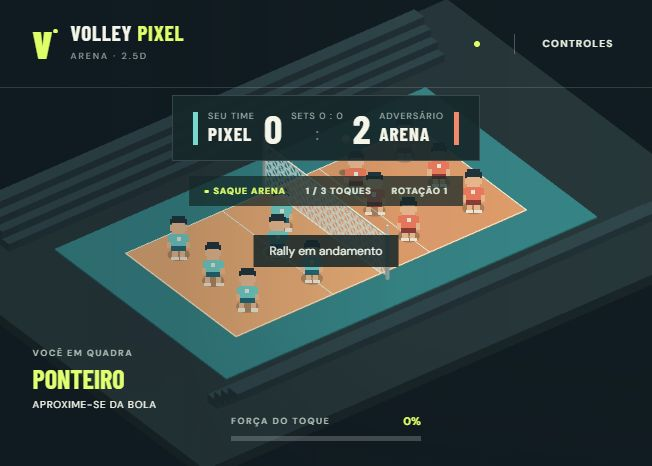
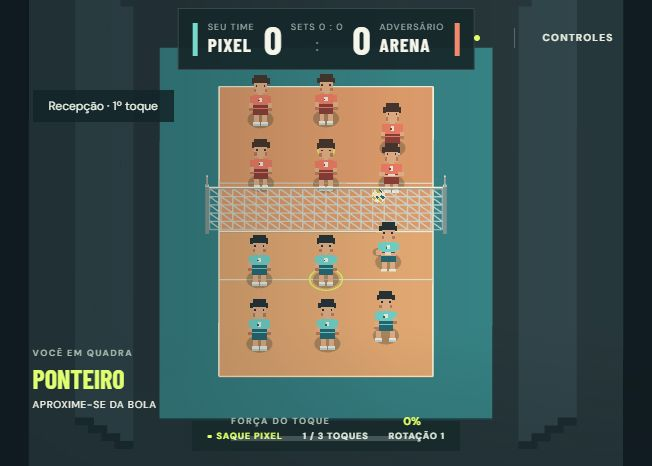
Adjust camera and animate pixel sprites

diff --git a/src/view.js b/src/view.js
@@ -1,13 +1,29 @@
 import * as THREE from 'three';
 const mat=(c)=>new THREE.MeshStandardMaterial({color:c,roughness:.85});
 export class View{
- constructor(host,players){this.host=host;this.scene=new THREE.Scene();this.scene.background=new THREE.Color(0x111c22);this.camera=new THREE.OrthographicCamera(-15,15,10,-10,.1,100);this.camera.position.set(-19,22,25);this.camera.lookAt(0,0,0);this.renderer=new THREE.WebGLRenderer({antialias:true});this.renderer.setPixelRatio(Math.min(devicePixelRatio,1.5));this.renderer.shadowMap.enabled=true;this.renderer.shadowMap.type=THREE.PCFSoftShadowMap;host.appendChild(this.renderer.domElement);this.scene.add(new THREE.HemisphereLight(0xd9f5ff,0x574132,2));let light=new THREE.DirectionalLight(0xfff2df,2.3);light.position.set(-6,20,9);light.castShadow=true;light.shadow.mapSize.set(1024,1024);light.shadow.camera.left=-16;light.shadow.camera.right=16;light.shadow.camera.top=16;light.shadow.camera.bottom=-16;this.scene.add(light);this.buildCourt();this.playerMeshes=players.map(p=>this.makePlayer(p));let ball=new THREE.Mesh(new THREE.SphereGeometry(.24,16,12),mat(0xf8ebc6));ball.castShadow=true;this.scene.add(ball);this.ball=ball;let stripe=new THREE.Mesh(new THREE.TorusGeometry(.241,.018,5,24),new THREE.MeshBasicMaterial({color:0x197c99}));ball.add(stripe);this.ballShadow=this.shadow(.35);this.aim=new THREE.Mesh(new THREE.RingGeometry(.3,.38,32),new THREE.MeshBasicMaterial({color:0xe4ff68,side:THREE.DoubleSide,transparent:true,opacity:.8}));this.aim.rotation.x=-Math.PI/2;this.aim.position.y=.035;this.scene.add(this.aim);this.line=new THREE.Line(new THREE.BufferGeometry(),new THREE.LineBasicMaterial({color:0xe4ff68,transparent:true,opacity:.55}));this.scene.add(this.line);this.ray=new THREE.Raycaster();this.plane=new THREE.Plane(new THREE.Vector3(0,1,0),0);this.resize();window.addEventListener('resize',()=>this.resize())}
+ constructor(host,players){this.host=host;this.scene=new THREE.Scene();this.scene.background=new THREE.Color(0x111c22);this.camera=new THREE.OrthographicCamera(-15,15,10,-10,.1,100);this.camera.position.set(-25,23,.01);this.camera.lookAt(0,0,0);this.renderer=new THREE.WebGLRenderer({antialias:true});this.renderer.setPixelRatio(Math.min(devicePixelRatio,1.5));this.renderer.shadowMap.enabled=true;this.renderer.shadowMap.type=THREE.PCFSoftShadowMap;host.appendChild(this.renderer.domElement);this.scene.add(new THREE.HemisphereLight(0xd9f5ff,0x574132,2));let light=new THREE.DirectionalLight(0xfff2df,2.3);light.position.set(-6,20,9);light.castShadow=true;light.shadow.mapSize.set(1024,1024);light.shadow.camera.left=-16;light.shadow.camera.right=16;light.shadow.camera.top=16;light.shadow.camera.bottom=-16;this.scene.add(light);this.buildCourt();this.playerMeshes=players.map(p=>this.makePlayer(p));let ballCanvas=document.createElement('canvas');ballCanvas.width=32;ballCanvas.height=32;let bc=ballCanvas.getContext('2d');bc.fillStyle='#fff4cb';bc.fillRect(8,3,16,26);bc.fillRect(4,7,24,18);bc.fillRect(2,11,28,10);bc.fillStyle='#e1b73f';bc.fillRect(4,9,8,5);bc.fillRect(17,4,7,5);bc.fillRect(19,20,8,5);bc.fillStyle='#236c8c';bc.fillRect(4,17,9,5);bc.fillRect(13,10,7,5);bc.fillRect(16,25,8,3);bc.fillStyle='#fffdf0';bc.fillRect(9,6,5,3);let bt=new THREE.CanvasTexture(ballCanvas);bt.magFilter=THREE.NearestFilter;bt.minFilter=THREE.NearestFilter;bt.colorSpace=THREE.SRGBColorSpace;let ball=new THREE.Sprite(new THREE.SpriteMaterial({map:bt,transparent:true,depthWrite:false}));ball.scale.set(.65,.65,1);this.scene.add(ball);this.ball=ball;this.ballShadow=this.shadow(.35);this.aim=new THREE.Mesh(new THREE.RingGeometry(.3,.38,32),new THREE.MeshBasicMaterial({color:0xe4ff68,side:THREE.DoubleSide,transparent:true,opacity:.8}));this.aim.rotation.x=-Math.PI/2;this.aim.position.y=.035;this.scene.add(this.aim);this.line=new THREE.Line(new THREE.BufferGeometry(),new THREE.LineBasicMaterial({color:0xe4ff68,transparent:true,opacity:.55}));this.scene.add(this.line);this.ray=new THREE.Raycaster();this.plane=new THREE.Plane(new THREE.Vector3(0,1,0),0);this.resize();window.addEventListener('resize',()=>this.resize())}
  box(x,y,z,w,h,d,color){let m=new THREE.Mesh(new THREE.BoxGeometry(w,h,d),mat(color));m.position.set(x,y,z);m.receiveShadow=true;this.scene.add(m);return m}
  buildCourt(){this.box(0,-.38,0,34,.6,25,0x182c32);this.box(0,-.03,0,23,.08,14,0x2d7b80);this.box(-4.5,.02,0,9,.08,9,0xe3a26e);this.box(4.5,.02,0,9,.08,9,0xdd9566);const line=(x,z,w,d)=>this.box(x,.075,z,w,.025,d,0xf6e8d0);line(0,-4.5,18,.07);line(0,4.5,18,.07);line(-9,0,.07,9);line(9,0,.07,9);line(-3,0,.055,9);line(3,0,.055,9);line(0,0,.08,9);for(let z of [-5,5]){this.box(0,1.35,z,.15,2.7,.15,0xc4d5d3);this.box(0,2.75,z,.08,1,.08,0xf8eee0)}let net=new THREE.Mesh(new THREE.PlaneGeometry(9.8,2.35,20,5),new THREE.MeshBasicMaterial({color:0xd7e8e2,wireframe:true,transparent:true,opacity:.35,side:THREE.DoubleSide}));net.rotation.y=Math.PI/2;net.position.set(0,1.37,0);this.scene.add(net);this.box(0,2.57,0,.08,.08,10,0xf9f2df);for(let i=0;i<4;i++){this.box(0,.3+i*.45,-8.5-i*.55,27,.45,.8,0x253c43);this.box(0,.3+i*.45,8.5+i*.55,27,.45,.8,0x253c43)} }
  shadow(r){let m=new THREE.Mesh(new THREE.CircleGeometry(r,24),new THREE.MeshBasicMaterial({color:0x0b2423,transparent:true,opacity:.25,depthWrite:false}));m.rotation.x=-Math.PI/2;m.position.y=.09;this.scene.add(m);return m}
- spriteTexture(team,role,frame){let c=document.createElement('canvas');c.width=32;c.height=48;let x=c.getContext('2d');x.imageSmoothingEnabled=false;let jersey=role==='Líbero'?'#f5d463':team?'#f27d5e':'#75d3cb';let dark=team?'#903d37':'#236978';let skin='#efbd92';x.fillStyle='rgba(0,0,0,0)';x.clearRect(0,0,32,48);x.fillStyle='#23343c';x.fillRect(10,5,12,10);x.fillRect(8,8,16,5);x.fillStyle=skin;x.fillRect(10,12,12,10);x.fillRect(8,14,2,5);x.fillRect(22,14,2,5);x.fillStyle=jersey;x.fillRect(9,22,14,12);x.fillRect(6,23,4,8);x.fillRect(22,23,4,8);x.fillStyle=skin;x.fillRect(5,30,4,6);x.fillRect(23,30,4,6);x.fillStyle='#f2efe3';x.fillRect(14,25,4,4);x.fillStyle=dark;x.fillRect(9,34,14,5);x.fillStyle=skin;x.fillRect(frame?8:10,39,5,5);x.fillRect(frame?19:17,39,5,5);x.fillStyle='#f5f0df';x.fillRect(frame?7:9,44,7,3);x.fillRect(frame?19:17,44,7,3);let t=new THREE.CanvasTexture(c);t.magFilter=THREE.NearestFilter;t.minFilter=THREE.NearestFilter;t.colorSpace=THREE.SRGBColorSpace;return t}
- makePlayer(p){let textures=[this.spriteTexture(p.team,p.role,0),this.spriteTexture(p.team,p.role,1)];let sprite=new THREE.Sprite(new THREE.SpriteMaterial({map:textures[0],transparent:true,depthWrite:false}));sprite.scale.set(1.65,2.47,1);this.scene.add(sprite);let shadow=this.shadow(.55);let marker=new THREE.Mesh(new THREE.RingGeometry(.65,.72,32),new THREE.MeshBasicMaterial({color:0xe4ff68,side:THREE.DoubleSide}));marker.rotation.x=-Math.PI/2;this.scene.add(marker);return {sprite,shadow,marker,textures}}
+ spriteTexture(team,role,pose,frame){
+  const c=document.createElement('canvas');c.width=48;c.height=64;const x=c.getContext('2d');x.imageSmoothingEnabled=false;
+  const jersey=role==='Líbero'?'#f3d45f':team?'#f48066':'#75d8cd', dark=team?'#8f403a':'#286b76', skin='#eab489', shade='#bd805f', hair=team?'#48362e':'#26343a';
+  const rect=(color,a,b,w,h)=>{x.fillStyle=color;x.fillRect(a,b,w,h)};
+  let crouch=pose==='pass', set=pose==='set', attack=pose==='attack', dive=pose==='dive';let y=crouch?5:0;
+  if(dive){rect(hair,27,32,11,8);rect(skin,28,39,11,8);rect(jersey,15,37,14,10);rect(dark,9,43,10,7);rect(skin,3,45,8,4);rect(skin,37,42,8,4);rect('#f5f2df',1,48,8,3);return this.texture(c)}
+  // Hair, face, neck and jersey are assembled on a deliberately small pixel grid.
+  rect(hair,16,5+y,16,11);rect(hair,13,9+y,22,6);rect(skin,16,14+y,16,11);rect(shade,16,20+y,3,4);rect(shade,29,20+y,3,4);rect(hair,18,16+y,2,2);rect(hair,28,16+y,2,2);rect(skin,21,24+y,6,4);
+  rect(jersey,15,27+y,18,16);rect(dark,15,38+y,18,3);rect('#f8f5e6',22,30+y,4,5);rect(dark,21,32+y,2,2);rect(jersey,11,28+y,5,9);rect(jersey,32,28+y,5,9);
+  if(set){rect(skin,9,17+y,5,13);rect(skin,34,17+y,5,13);rect(skin,12,11+y,5,8);rect(skin,31,11+y,5,8);rect('#f8e6d1',10,9+y,7,3);rect('#f8e6d1',31,9+y,7,3)}
+  else if(attack){rect(skin,9,21+y,5,12);rect(skin,34,12+y,5,16);rect(skin,32,7+y,8,6)}
+  else if(crouch){rect(skin,9,36+y,7,5);rect(skin,32,36+y,7,5);rect(skin,15,39+y,18,4);rect('#f4e4d4',20,38+y,8,3)}
+  else {let swing=pose==='run'&&frame?3:0;rect(skin,10,36+y+swing,5,8);rect(skin,33,36+y-swing,5,8);rect(shade,10,41+y+swing,5,3);rect(shade,33,41+y-swing,5,3)}
+  rect(dark,15,42+y,18,7);let left=pose==='run'&&frame?12:16,right=pose==='run'&&frame?29:26;rect(skin,left,49+y,6,8);rect(skin,right,49+y,6,8);rect('#f5f4e8',left-1,56+y,8,4);rect('#f5f4e8',right-1,56+y,8,4);rect('#c6d9d4',left-1,59+y,8,2);rect('#c6d9d4',right-1,59+y,8,2);return this.texture(c)
+ }
+ texture(c){let t=new THREE.CanvasTexture(c);t.magFilter=THREE.NearestFilter;t.minFilter=THREE.NearestFilter;t.colorSpace=THREE.SRGBColorSpace;return t} makePlayer(p){let textures={};for(const pose of ['idle','run','pass','set','attack','dive'])textures[pose]=[this.spriteTexture(p.team,p.role,pose,0),this.spriteTexture(p.team,p.role,pose,1)];let sprite=new THREE.Sprite(new THREE.SpriteMaterial({map:textures.idle[0],transparent:true,depthWrite:false}));sprite.scale.set(1.65,2.47,1);this.scene.add(sprite);let shadow=this.shadow(.55);let marker=new THREE.Mesh(new THREE.RingGeometry(.65,.72,32),new THREE.MeshBasicMaterial({color:0xe4ff68,side:THREE.DoubleSide}));marker.rotation.x=-Math.PI/2;this.scene.add(marker);return {sprite,shadow,marker,textures,role:p.role}}
  pointer(clientX,clientY){let rect=this.renderer.domElement.getBoundingClientRect();this.ray.setFromCamera(new THREE.Vector2((clientX-rect.left)/rect.width*2-1,-((clientY-rect.top)/rect.height)*2+1),this.camera);let v=new THREE.Vector3();return this.ray.ray.intersectPlane(this.plane,v)?{x:v.x,z:v.z}:null}
- resize(){let w=this.host.clientWidth,h=this.host.clientHeight;this.renderer.setSize(w,h);let aspect=w/h;let size=11.5;this.camera.left=-size*aspect;this.camera.right=size*aspect;this.camera.top=size;this.camera.bottom=-size;this.camera.updateProjectionMatrix()}
- render(game){for(let i=0;i<game.players.length;i++){let p=game.players[i],m=this.playerMeshes[i];m.sprite.position.set(p.x,1.24+p.y,p.z);m.sprite.material.map=m.textures[Math.floor(p.anim*3)%2];m.shadow.position.set(p.x,.1,p.z);m.shadow.scale.setScalar(1-p.y*.12);m.marker.visible=p===game.controlled;m.marker.position.set(p.x,.11,p.z)}let b=game.ball;this.ball.position.set(b.x,b.y,b.z);this.ball.rotation.x+=.04;this.ball.rotation.z+=.03;this.ballShadow.position.set(b.x,.1,b.z);this.ballShadow.scale.setScalar(Math.max(.35,1-b.y*.08));this.aim.position.set(game.aim.x,.1,game.aim.z);this.aim.material.color.set(game.aimValid()?0xe4ff68:0xff7a70);let pts=[];if(game.charge!==null){let t=game.aim;for(let i=0;i<=20;i++){let f=i/20;pts.push(new THREE.Vector3(b.x+(t.x-b.x)*f,b.y+(0.15-b.y)*f+Math.sin(f*Math.PI)*3,b.z+(t.z-b.z)*f))}}this.line.geometry.setFromPoints(pts);this.renderer.render(this.scene,this.camera)}
+ resize(){let w=this.host.clientWidth,h=this.host.clientHeight;this.renderer.setSize(w,h);let aspect=w/h;let size=9.8;this.camera.left=-size*aspect;this.camera.right=size*aspect;this.camera.top=size;this.camera.bottom=-size;this.camera.updateProjectionMatrix()}
+ render(game){for(let i=0;i<game.players.length;i++){let p=game.players[i],m=this.playerMeshes[i];if(m.role!==p.role){for(const pose of Object.values(m.textures))for(const texture of pose)texture.dispose();for(const pose of ['idle','run','pass','set','attack','dive'])m.textures[pose]=[this.spriteTexture(p.team,p.role,pose,0),this.spriteTexture(p.team,p.role,pose,1)];m.role=p.role}m.sprite.position.set(p.x,1.24+p.y,p.z);let pose=p.actionTime>0?p.actionPose:(p.y>.2?'attack':p.action==='run'?'run':'idle');m.sprite.material.map=m.textures[pose][Math.floor(p.anim*3)%2];m.shadow.position.set(p.x,.1,p.z);m.shadow.scale.setScalar(1-p.y*.12);m.marker.visible=p===game.controlled;m.marker.position.set(p.x,.11,p.z)}let b=game.ball;this.ball.position.set(b.x,b.y,b.z);this.ball.material.rotation+=.03;this.ballShadow.position.set(b.x,.1,b.z);this.ballShadow.scale.setScalar(Math.max(.35,1-b.y*.08));this.aim.position.set(game.aim.x,.1,game.aim.z);this.aim.material.color.set(game.aimValid()?0xe4ff68:0xff7a70);let pts=[];if(game.charge!==null){let t=game.aim;for(let i=0;i<=20;i++){let f=i/20;pts.push(new THREE.Vector3(b.x+(t.x-b.x)*f,b.y+(0.15-b.y)*f+Math.sin(f*Math.PI)*3,b.z+(t.z-b.z)*f))}}this.line.geometry.setFromPoints(pts);this.renderer.render(this.scene,this.camera)}
 }
+
+

diff --git a/src/main.js b/src/main.js
@@ -6,7 +6,8 @@ const app=document.querySelector('#app');
 app.innerHTML=`<div id="stage"></div><div class="grain"></div><header class="topbar"><div class="brand"><span class="brand-mark">V<span>●</span></span><div><b>VOLLEY <em>PIXEL</em></b><small>ARENA · 2.5D</small></div></div><div class="top-right"><span class="live-dot"></span> QUADRA CENTRAL <span class="divider"></span> <button id="helpBtn">CONTROLES</button></div></header><main id="menu" class="menu"><div class="eyebrow"><span></span> O JOGO É SEU</div><h1>ENTRE<br>EM <i>QUADRA.</i></h1><p>Monte sua jogada, encontre o espaço e faça a bola cair. Uma experiência de vôlei em 2.5D para jogar no navegador.</p><div class="menu-grid"><label>POSIÇÃO<select id="role"><option>Ponteiro</option><option>Levantador</option><option>Oposto</option><option>Central</option><option>Líbero</option></select></label><label>DIFICULDADE<select id="difficulty"><option>Normal</option><option>Fácil</option><option>Difícil</option></select></label></div><div class="menu-actions"><button id="play" class="primary">JOGAR PARTIDA <span>↗</span></button><button id="train" class="secondary">TREINAR</button></div><label class="check"><input id="quick" type="checkbox" checked> PARTIDA RÁPIDA <span>· SET ATÉ 7 PONTOS</span></label><div class="menu-note"><b>01 / PROTÓTIPO JOGÁVEL</b><span>TECLADO + MOUSE</span></div></main><div id="hud" class="hud hidden"><div class="score"><div class="team"><span class="team-chip teal"></span><div><small>SEU TIME</small><b>PIXEL</b></div></div><strong id="scoreA">0</strong><div class="score-mid"><small>SETS <span id="sets">0 : 0</span></small><i>:</i></div><strong id="scoreB">0</strong><div class="team rival"><div><small>ADVERSÁRIO</small><b>ARENA</b></div><span class="team-chip coral"></span></div></div><div class="match-meta"><span id="serve">● SAQUE PIXEL</span><span id="touches">0 / 3 TOQUES</span><span id="rotation">ROTAÇÃO 1</span></div><div class="game-message" id="message"></div><div class="bottom-left"><span class="mini-label">VOCÊ EM QUADRA</span><strong id="playerRole">PONTEIRO</strong><span id="hint">Aproxime-se da bola para jogar</span></div><div class="power-wrap"><div><span>FORÇA DO TOQUE</span><b id="powerText">0%</b></div><div class="power-track"><div id="power"></div></div></div><div class="bottom-right"><kbd>W A S D</kbd> MOVER <kbd>SHIFT</kbd> CORRER <kbd>ESPAÇO</kbd> SALTAR <kbd>ESC</kbd> PAUSAR</div></div><div class="corner-label">VOLLEY PIXEL ARENA <span>✳</span> TEMPORADA 01</div><div id="pause" class="modal hidden"><div><small>TEMPO TÉCNICO</small><h2>JOGO PAUSADO</h2><button id="resume" class="primary">CONTINUAR</button><button id="restart" class="secondary">NOVA PARTIDA</button><button id="back" class="textbtn">VOLTAR AO MENU</button></div></div><div id="help" class="modal hidden"><div><small>GUIA RÁPIDO</small><h2>COMO JOGAR</h2><p><b>W A S D</b> movimenta em relação à câmera; <b>Shift</b> corre e <b>Espaço</b> salta ou mergulha.</p><p>Mire no chão com o mouse. Segure e solte o <b>botão esquerdo</b> para recepcionar, levantar ou atacar. O <b>direito</b> envia a bola para o outro lado. O terceiro toque prioriza o ataque.</p><p>Aproxime-se da bola antes de soltar. No treino, a equipe adversária alimenta rallies continuamente.</p><button id="closeHelp" class="primary">ENTENDI</button></div></div>`;
 let game=new Game({role:'Ponteiro',difficulty:'Normal',quick:true,training:false},()=>{});let view=new View(document.querySelector('#stage'),game.players);let active=false, audio=null;
 function sound(type){if(!audio)return;let o=audio.createOscillator(),g=audio.createGain();let f={hit:190,pass:300,serve:240,point:520,whistle:900,net:120,jump:200}[type]||200;o.type=type==='whistle'?'sine':'triangle';o.frequency.setValueAtTime(f,audio.currentTime);o.frequency.exponentialRampToValueAtTime(f*.65,audio.currentTime+.12);g.gain.setValueAtTime(.025,audio.currentTime);g.gain.exponentialRampToValueAtTime(.001,audio.currentTime+.13);o.connect(g).connect(audio.destination);o.start();o.stop(audio.currentTime+.14)}
-const $=id=>document.getElementById(id);function start(training){if(!audio)audio=new AudioContext();audio.resume();game=new Game({role:$('role').value,difficulty:$('difficulty').value,quick:$('quick').checked,training},sound);if(training)game.rules.server=1;active=true;$('menu').classList.add('hidden');$('hud').classList.remove('hidden');$('pause').classList.add('hidden');$('playerRole').textContent=game.controlled.role.toUpperCase()+(training?' · TREINO':'');}
+const $=id=>document.getElementById(id);function start(training){if(!audio)audio=new AudioContext();audio.resume();game=new Game({role:$('role').value,difficulty:$('difficulty').value,quick:$('quick').checked,training},sound);if(training){game.rules.server=1;game.serve()}active=true;$('menu').classList.add('hidden');$('hud').classList.remove('hidden');$('pause').classList.add('hidden');$('playerRole').textContent=game.controlled.role.toUpperCase()+(training?' · TREINO':'');}
 $('play').onclick=()=>start(false);$('train').onclick=()=>start(true);$('resume').onclick=()=>{game.paused=false;$('pause').classList.add('hidden')};$('restart').onclick=()=>start(game.training);$('back').onclick=()=>{active=false;game.paused=false;$('pause').classList.add('hidden');$('hud').classList.add('hidden');$('menu').classList.remove('hidden')};$('helpBtn').onclick=()=>{$('help').classList.remove('hidden');if(active)game.paused=true};$('closeHelp').onclick=()=>{$('help').classList.add('hidden');if(active)game.paused=false};
 window.addEventListener('keydown',e=>{let k=e.key.toLowerCase();game.keys[k]=true;if([' ','escape'].includes(k))e.preventDefault();if(e.repeat)return;if(k===' '&&active&&!game.paused)game.special();if(k==='escape'&&active){game.paused=!game.paused;$('pause').classList.toggle('hidden',!game.paused)}});window.addEventListener('keyup',e=>game.keys[e.key.toLowerCase()]=false);window.addEventListener('blur',()=>{game.keys={};game.charge=null});view.renderer.domElement.addEventListener('pointermove',e=>{let v=view.pointer(e.clientX,e.clientY);if(v)game.aim={x:clamp(v.x,-12,12),z:clamp(v.z,-7,7)}});view.renderer.domElement.addEventListener('contextmenu',e=>e.preventDefault());view.renderer.domElement.addEventListener('pointerdown',e=>{if(active&&!game.paused&&(e.button===0||e.button===2)){game.charge={start:performance.now(),button:e.button};view.renderer.domElement.setPointerCapture(e.pointerId)}});view.renderer.domElement.addEventListener('pointerup',e=>{if(!game.charge||!active||game.paused)return;let power=clamp((performance.now()-game.charge.start)/1100,.12,1);let target={...game.aim};if(game.charge.button===2&&target.x<.5)target.x=Math.max(1,Math.abs(target.x));game.contact(game.controlled,target,power);game.charge=null});
 let last=performance.now(),acc=0;function frame(now){let dt=Math.min((now-last)/1000,.1);last=now;acc+=dt;while(acc>=1/60){if(active)game.update(1/60);acc-=1/60}view.render(game);if(active){let r=game.rules;$('scoreA').textContent=r.points[0];$('scoreB').textContent=r.points[1];$('sets').textContent=r.sets.join(' : ');$('serve').textContent='● SAQUE '+(r.server?'ARENA':'PIXEL');$('touches').textContent=r.touches+' / 3 TOQUES';$('rotation').textContent='ROTAÇÃO '+(r.rotation[0]+1);$('message').textContent=r.over?'FIM DE JOGO · ESC PARA REINICIAR':game.message;let power=game.charge?clamp((now-game.charge.start)/1100,0,1):0;$('power').style.width=(power*100)+'%';$('powerText').textContent=Math.round(power*100)+'%';$('hint').textContent=game.ball.live?(Math.hypot(game.controlled.x-game.ball.x,game.controlled.z-game.ball.z)<1.55?'SOLTE O BOTÃO PARA TOCAR':'APROXIME-SE DA BOLA'):'AGUARDE O SAQUE'}requestAnimationFrame(frame)}requestAnimationFrame(frame);
+

diff --git a/src/style.css b/src/style.css
@@ -1,3 +1,4 @@
 @import url('https://fonts.googleapis.com/css2?family=Barlow+Condensed:wght@500;600;700;800;900&family=DM+Sans:wght@400;500;600;700&display=swap');
 :root{font-family:'DM Sans',sans-serif;color:#f5f5e9;background:#111c22;font-synthesis:none}*{box-sizing:border-box}body{margin:0;overflow:hidden}button,select{font:inherit}button{cursor:pointer}#stage,.grain{position:fixed;inset:0}#stage canvas{display:block;width:100%;height:100%}.grain{pointer-events:none;background:linear-gradient(90deg,rgba(12,23,28,.97) 0%,rgba(12,23,28,.91) 28%,rgba(12,23,28,.25) 61%,rgba(12,23,28,.05)),linear-gradient(0deg,rgba(12,23,28,.65),transparent 30%);transition:opacity .4s}body:has(.menu.hidden) .grain{opacity:.25}.topbar{position:absolute;top:0;left:0;right:0;height:88px;padding:0 5%;display:flex;align-items:center;justify-content:space-between;border-bottom:1px solid #ffffff24;z-index:3}.brand{display:flex;align-items:center;gap:12px}.brand-mark{font-family:'Barlow Condensed';font-size:38px;line-height:1;color:#dfff69;font-weight:900;font-style:italic}.brand-mark span{font-size:10px;vertical-align:top}.brand b{display:block;font-family:'Barlow Condensed';font-size:21px;line-height:.95;letter-spacing:.04em}.brand em{font-style:normal;color:#dfff69}.brand small{font-size:9px;letter-spacing:.22em;color:#94a5a4}.top-right{display:flex;align-items:center;gap:12px;font-size:10px;letter-spacing:.14em;font-weight:700;color:#b7c7c1}.live-dot{width:6px;height:6px;border-radius:50%;background:#dfff69}.divider{height:20px;width:1px;background:#ffffff40;margin:0 10px}.top-right button,.textbtn{border:0;color:#e6eddf;background:none;font-size:10px;font-weight:700;letter-spacing:.12em}.menu{position:absolute;z-index:2;left:7.2%;top:50%;transform:translateY(-43%);width:min(480px,43vw)}.eyebrow{font-size:11px;font-weight:700;letter-spacing:.22em;color:#dfff69;display:flex;align-items:center;gap:12px}.eyebrow span{height:2px;width:35px;background:#dfff69}h1,h2{font-family:'Barlow Condensed',sans-serif;font-weight:900;margin:18px 0;letter-spacing:-.025em;line-height:.79}h1{font-size:clamp(72px,8.5vw,135px)}h1 i{color:#dfff69;font-style:italic}.menu p{font-size:14px;line-height:1.7;color:#b9c6bf;max-width:390px;margin:28px 0}.menu-grid{display:grid;grid-template-columns:1fr 1fr;gap:12px;margin-top:28px}label{display:block;font-size:10px;letter-spacing:.15em;font-weight:700;color:#aabcb6}select{appearance:none;width:100%;margin-top:9px;padding:14px 15px;background:#26383a;border:1px solid #ffffff21;color:#fff;font-size:14px;background-image:linear-gradient(45deg,transparent 50%,#dfff69 50%),linear-gradient(135deg,#dfff69 50%,transparent 50%);background-position:calc(100% - 18px) 20px,calc(100% - 13px) 20px;background-size:5px 5px;background-repeat:no-repeat}.menu-actions{display:flex;gap:10px;margin-top:18px}.primary,.secondary{border:1px solid #dfff69;padding:17px 21px;font-size:11px;font-weight:800;letter-spacing:.12em}.primary{background:#dfff69;color:#152322;flex:1}.primary span{float:right;font-size:16px;line-height:10px}.secondary{background:#ffffff0b;color:#fff;border-color:#ffffff50}.primary:hover{background:#f2ffb5}.secondary:hover{background:#ffffff20}.check{margin-top:17px;display:flex;align-items:center;gap:8px;font-size:10px;color:#dce6d9}.check input{accent-color:#dfff69}.check span{color:#839890}.menu-note{display:flex;justify-content:space-between;border-top:1px solid #ffffff25;margin-top:40px;padding-top:17px;font-size:9px;letter-spacing:.16em;color:#849a94}.corner-label{position:absolute;right:5%;bottom:28px;font-size:9px;font-weight:700;letter-spacing:.16em;color:#b4c4ba}.corner-label span{color:#dfff69;font-size:18px;margin:0 10px}.hidden{display:none!important}.hud{position:absolute;inset:0;pointer-events:none}.score{position:absolute;top:105px;left:50%;transform:translateX(-50%);display:flex;align-items:center;gap:20px;background:#17282bee;border:1px solid #ffffff24;padding:12px 20px}.team{display:flex;align-items:center;gap:10px}.team-chip{width:5px;height:33px;background:#77d8cd}.team-chip.coral{background:#f1896d}.team small,.score-mid small{display:block;font-size:9px;color:#9fb2ab;letter-spacing:.12em}.team b{font-family:'Barlow Condensed';font-size:19px;letter-spacing:.06em}.score strong{font-family:'Barlow Condensed';font-size:40px;line-height:1}.score-mid{text-align:center}.score-mid i{font-size:18px;font-style:normal;color:#6e817a}.match-meta{position:absolute;top:187px;left:50%;transform:translateX(-50%);display:flex;gap:20px;font-size:9px;font-weight:700;letter-spacing:.1em;color:#dbe9d9;background:#152728bb;padding:9px 15px}.match-meta span:first-child{color:#dfff69}.game-message{position:absolute;top:235px;left:50%;transform:translateX(-50%);background:#132528d9;color:#ecf4e7;padding:8px 16px;font-size:12px}.bottom-left{position:absolute;bottom:55px;left:5%;display:grid;gap:4px}.mini-label,.power-wrap span{font-size:9px;letter-spacing:.16em;color:#a9b9af;font-weight:700}.bottom-left strong{font-family:'Barlow Condensed';font-size:26px;color:#e0ff71}.bottom-left #hint{font-size:10px;letter-spacing:.08em}.bottom-right{position:absolute;right:5%;bottom:58px;font-size:9px;letter-spacing:.07em;color:#d0dcd2}kbd{border:1px solid #b8c9bf66;padding:5px;margin-left:12px;color:#fff;font:inherit}.power-wrap{position:absolute;bottom:58px;left:50%;transform:translateX(-50%);width:190px}.power-wrap>div:first-child{display:flex;justify-content:space-between;align-items:center}.power-wrap b{font-size:11px;color:#dfff69}.power-track{height:5px;background:#ffffff33;margin-top:8px}.power-track div{height:100%;width:0;background:#dfff69}.modal{position:absolute;z-index:5;inset:0;background:#0c171bce;display:grid;place-items:center}.modal>div{width:min(440px,90vw);background:#1c3032;border:1px solid #ffffff2f;padding:35px}.modal small{color:#dfff69;letter-spacing:.2em;font-weight:700}.modal h2{font-size:50px;line-height:1}.modal p{color:#c4d0c6;font-size:14px;line-height:1.6}.modal button{margin:8px 8px 0 0}.textbtn{display:block;margin-top:20px!important;padding:10px 0}@media(max-width:800px){.menu{left:6%;width:68vw}.top-right{font-size:0}.top-right button{font-size:10px}.bottom-right{display:none}.score{top:95px;gap:9px}.match-meta{top:176px;white-space:nowrap}.power-wrap{bottom:25px}.corner-label{display:none}}
 @media(max-height:700px){.menu{top:100px;transform:none}.menu h1{font-size:clamp(52px,8vw,90px);margin:12px 0}.menu p{margin:14px 0;font-size:13px;line-height:1.45}.menu-grid{margin-top:14px}.menu-note{margin-top:18px}.topbar{height:75px}.menu-actions{margin-top:10px}.primary,.secondary{padding:13px 17px}}
+body:has(.menu.hidden) .score{top:8px}body:has(.menu.hidden) .match-meta{top:auto;bottom:15px}body:has(.menu.hidden) .game-message{top:105px;left:5%;transform:none;max-width:170px}body:has(.menu.hidden) .topbar{border-bottom:0}@media(max-width:700px){body:has(.menu.hidden) .topbar .brand{opacity:0}body:has(.menu.hidden) .score{gap:9px;padding:10px 14px}body:has(.menu.hidden) .game-message{top:90px;max-width:150px}}

diff --git a/src/game.js b/src/game.js
@@ -6,14 +6,16 @@ export class Game{
  serve(){let t=this.rules.server;let p=this.players[t*6+(6-this.rules.rotation[t])%6];this.ball.x=p.x;this.ball.z=p.z;this.ball.y=2;this.ball.vx=this.ball.vy=this.ball.vz=0;this.ball.live=false;this.timer=1.5;this.message=t===0?'Seu time vai sacar':'Saque adversário';this.notify('whistle')}
  doServe(){let t=this.rules.server;let p=this.players[t*6+(6-this.rules.rotation[t])%6];this.ball.live=true;this.hitLock=.25;this.rules.side=t;this.rules.touches=1;this.rules.last=p.id;launch(this.ball,{x:t?-5:5,z:(Math.random()-.5)*5,y:.65},1.25);this.message='Rally em andamento';this.notify('serve')}
  aimValid(){return Math.abs(this.aim.x)<=9&&Math.abs(this.aim.z)<=4.5}
- contact(p,target,power,forced=false){let b=this.ball;if(this.hitLock>0)return false;if(!b.live||dist(p,b)>1.55||b.y>3.35+p.y||b.y<.25){if(p===this.controlled)this.message='Aproxime-se da bola para tocar';return false}let fault=this.rules.contact(p.team,p.id);if(fault){this.point(1-p.team,fault);return false}let other=p.team===0?target.x>0:target.x<0;if(this.rules.touches===3&&!other){target={x:p.team?-5:5,z:target.z};other=true}let duration=other?1.15-power*.45:1.05+power*.35;let kind=other?(p.y>.3?'Ataque':'Bola enviada'):(this.rules.touches===1?'Recepção':'Levantamento');if(p.role==='Líbero'&&p.y>.3&&other){this.point(1-p.team,'Ataque irregular do líbero');return false}launch(b,{x:target.x,z:target.z,y:other?.3:1.35},duration);this.hitLock=.2;p.cool=.45;p.action=kind;p.anim+=.5;this.message=kind+' · '+this.rules.touches+'º toque';this.lastHit=kind;this.notify(other?'hit':'pass');return true}
+ contact(p,target,power,forced=false){let b=this.ball;if(this.hitLock>0)return false;if(!b.live||dist(p,b)>1.55||b.y>3.35+p.y||b.y<.25){if(p===this.controlled)this.message='Aproxime-se da bola para tocar';return false}let fault=this.rules.contact(p.team,p.id);if(fault){this.point(1-p.team,fault);return false}let other=p.team===0?target.x>0:target.x<0;if(this.rules.touches===3&&!other){target={x:p.team?-5:5,z:target.z};other=true}let duration=other?1.15-power*.45:1.05+power*.35;let kind=other?(p.y>.3?'Ataque':'Bola enviada'):(this.rules.touches===1?'Recepção':'Levantamento');if(p.role==='Líbero'&&p.y>.3&&other){this.point(1-p.team,'Ataque irregular do líbero');return false}launch(b,{x:target.x,z:target.z,y:other?.3:1.35},duration);this.hitLock=.2;p.cool=.45;p.action=kind;p.actionPose=other?(p.y>.2?'attack':'pass'):(this.rules.touches===1?'pass':'set');p.actionTime=.55;p.anim+=.5;this.message=kind+' · '+this.rules.touches+'º toque';this.lastHit=kind;this.notify(other?'hit':'pass');return true}
  aiHit(p){let team=p.team, n=this.rules.side===team?this.rules.touches:0, target;if(n===0){target={x:team?2.2:-2.2,z:0}}else if(n===1){let attackers=this.players.filter(a=>a.team===team&&a.role!=='Levantador'&&a.id!==p.id);let a=attackers[Math.floor(Math.random()*attackers.length)];target={x:team?2.4:-2.4,z:a.z}}else{let error=this.difficulty==='Fácil'?1.7:this.difficulty==='Difícil'?.35:.85;target={x:(team?-1:1)*(4+Math.random()*3),z:(Math.random()-.5)*(6+error)}}this.contact(p,target,.45,true)}
  point(team,reason){if(!this.ball.live)return;this.ball.live=false;this.rules.point(team);this.message=(team===0?'Ponto seu':'Ponto adversário')+' · '+reason;this.notify('point');this.timer=2.3;if(this.training){this.rules.points=[0,0];this.rules.sets=[0,0];this.rules.over=false;this.rules.server=1} }
- special(){let p=this.controlled;if(p.y===0&&p.cool<=0){p.vy=p.role==='Líbero'?3.2:5.5;p.action=p.role==='Líbero'?'Mergulho':'Salto';p.cool=.35;this.notify('jump')}}
- update(dt){if(this.paused)return;this.hitLock=Math.max(0,this.hitLock-dt);let p=this.controlled;for(const q of this.players){q.cool=Math.max(0,q.cool-dt);q.vy-=12*dt;q.y=Math.max(0,q.y+q.vy*dt);if(q.y===0&&q.vy<0)q.vy=0}let dx=(this.keys.d?1:0)-(this.keys.a?1:0),dz=(this.keys.s?1:0)-(this.keys.w?1:0);if(dx||dz){let len=Math.hypot(dx,dz);dx/=len;dz/=len;let speed=this.keys.shift?5.2:3.4; // camera-relative horizontal and vertical basis
- p.x+=(-dx-dz)*.707*speed*dt;p.z+=(-dx+dz)*.707*speed*dt;p.x=clamp(p.x,-10,-.45);p.z=clamp(p.z,-5.6,5.6);p.anim+=dt*speed;p.facing=Math.atan2(dz,dx)}
+ special(){let p=this.controlled;if(p.y===0&&p.cool<=0){p.vy=p.role==='Líbero'?3.2:5.5;p.action=p.role==='Líbero'?'Mergulho':'Salto';p.actionPose=p.role==='Líbero'?'dive':p.role==='Levantador'?'set':'attack';p.actionTime=.5;p.cool=.35;this.notify('jump')}}
+ update(dt){if(this.paused)return;this.hitLock=Math.max(0,this.hitLock-dt);let p=this.controlled;for(const q of this.players){q.cool=Math.max(0,q.cool-dt);q.actionTime=Math.max(0,(q.actionTime||0)-dt);q.vy-=12*dt;q.y=Math.max(0,q.y+q.vy*dt);if(q.y===0&&q.vy<0)q.vy=0}let dx=(this.keys.d?1:0)-(this.keys.a?1:0),dz=(this.keys.s?1:0)-(this.keys.w?1:0);if(dx||dz){let len=Math.hypot(dx,dz);dx/=len;dz/=len;let speed=this.keys.shift?5.2:3.4; // camera-relative horizontal and vertical basis
+ p.x-=dz*speed*dt;p.z+=dx*speed*dt;p.x=clamp(p.x,-10,-.45);p.z=clamp(p.z,-5.6,5.6);p.anim+=dt*speed;p.facing=Math.atan2(dz,dx);p.action='run'}else p.action='idle';
  if(!this.ball.live){this.timer-=dt;if(this.timer<=0&&!this.rules.over){if(this.message.includes('Ponto')){for(const q of this.players){let f=formation(q,this.rules.rotation[q.team]);q.x=f.x;q.z=f.z}this.serve()}else this.doServe()}return}
  updateAI(this,dt);let b=this.ball,oldX=b.x;stepBall(b,dt);if(oldX*b.x<0&&b.y<2.55&&Math.abs(b.z)<5){b.x=oldX;b.vx*=-.35;b.vy*=.45;this.message='Bola na rede';this.notify('net')}if(oldX*b.x<0&&Math.abs(b.z)>=4.5&&Math.abs(b.z)<5.3&&b.y<3.5){this.point(b.x>0?1:0,'Bola na antena');return}if(b.y<=.24){b.y=.24;let inside=Math.abs(b.x)<=9&&Math.abs(b.z)<=4.5;let winner=inside?(b.x<0?1:0):(this.rules.side<0?0:1-this.rules.side);this.point(winner,inside?'Bola no chão':'Bola fora')}
  }
 }
+
+
 

diff --git a/README.md b/README.md
@@ -1,6 +1,6 @@
 # Volley Pixel Arena
 
-Protótipo de vôlei de quadra para navegador, com quadra 3D ortográfica e personagens desenhados como sprites pixelados. É um MVP arcade: **não é uma simulação completa das regras FIVB**.
+Protótipo de vôlei de quadra para navegador, com quadra 3D ortográfica vista atrás do time e personagens e bola desenhados como sprites pixelados. É um MVP arcade: **não é uma simulação completa das regras FIVB**.
 
 ## Executar localmente
 
@@ -38,7 +38,7 @@ Escolha posição e dificuldade e inicie uma partida ou treino. WASD move em rel
 
 - A IA e as rotações são aproximações arcade, não uma implementação tática 5x1 completa. Bloqueios, coberturas, infiltração, aproximações, saques manuais e posicionamento regulamentar não foram implementados integralmente.
 - Líbero é selecionável e tem mergulho simplificado; substituições reais, restrições completas e defesa específica ainda faltam. Faltas de invasão, toque na rede, ataque de fundo e várias exceções de contato não são verificadas.
-- Sprites têm duas poses de caminhada; não há oito direções ou todas as animações solicitadas. As ações não têm animações dedicadas.
+- Os sprites têm poses simples de corrida, manchete, levantamento, ataque e mergulho; ainda não há oito direções nem todas as animações solicitadas.
 - O treino oferece rallies repetidos, sem exercícios individuais nem avaliação de precisão. A dificuldade ainda não altera decisões ou precisão em todos os aspectos previstos.
 - A previsão visual é aproximada e não corresponde necessariamente à trajetória exata; a qualidade do toque não considera todos os fatores de posição e timing. Não há controles de volume separados ou todas as categorias de áudio.
 - A experiência foi projetada para teclado e mouse em desktop; telas pequenas não são o alvo principal.
@@ -54,3 +54,4 @@ Sprites, geometria e efeitos sonoros são gerados pelo código deste projeto. Th
 ## Próximos passos
 
 Priorizar testes de jogabilidade com pessoas, melhorar interceptação e timing, implementar 5x1 e substituições de líbero, depois adicionar animações direcionais, treinamento por fundamento e regras oficiais completas.
+
